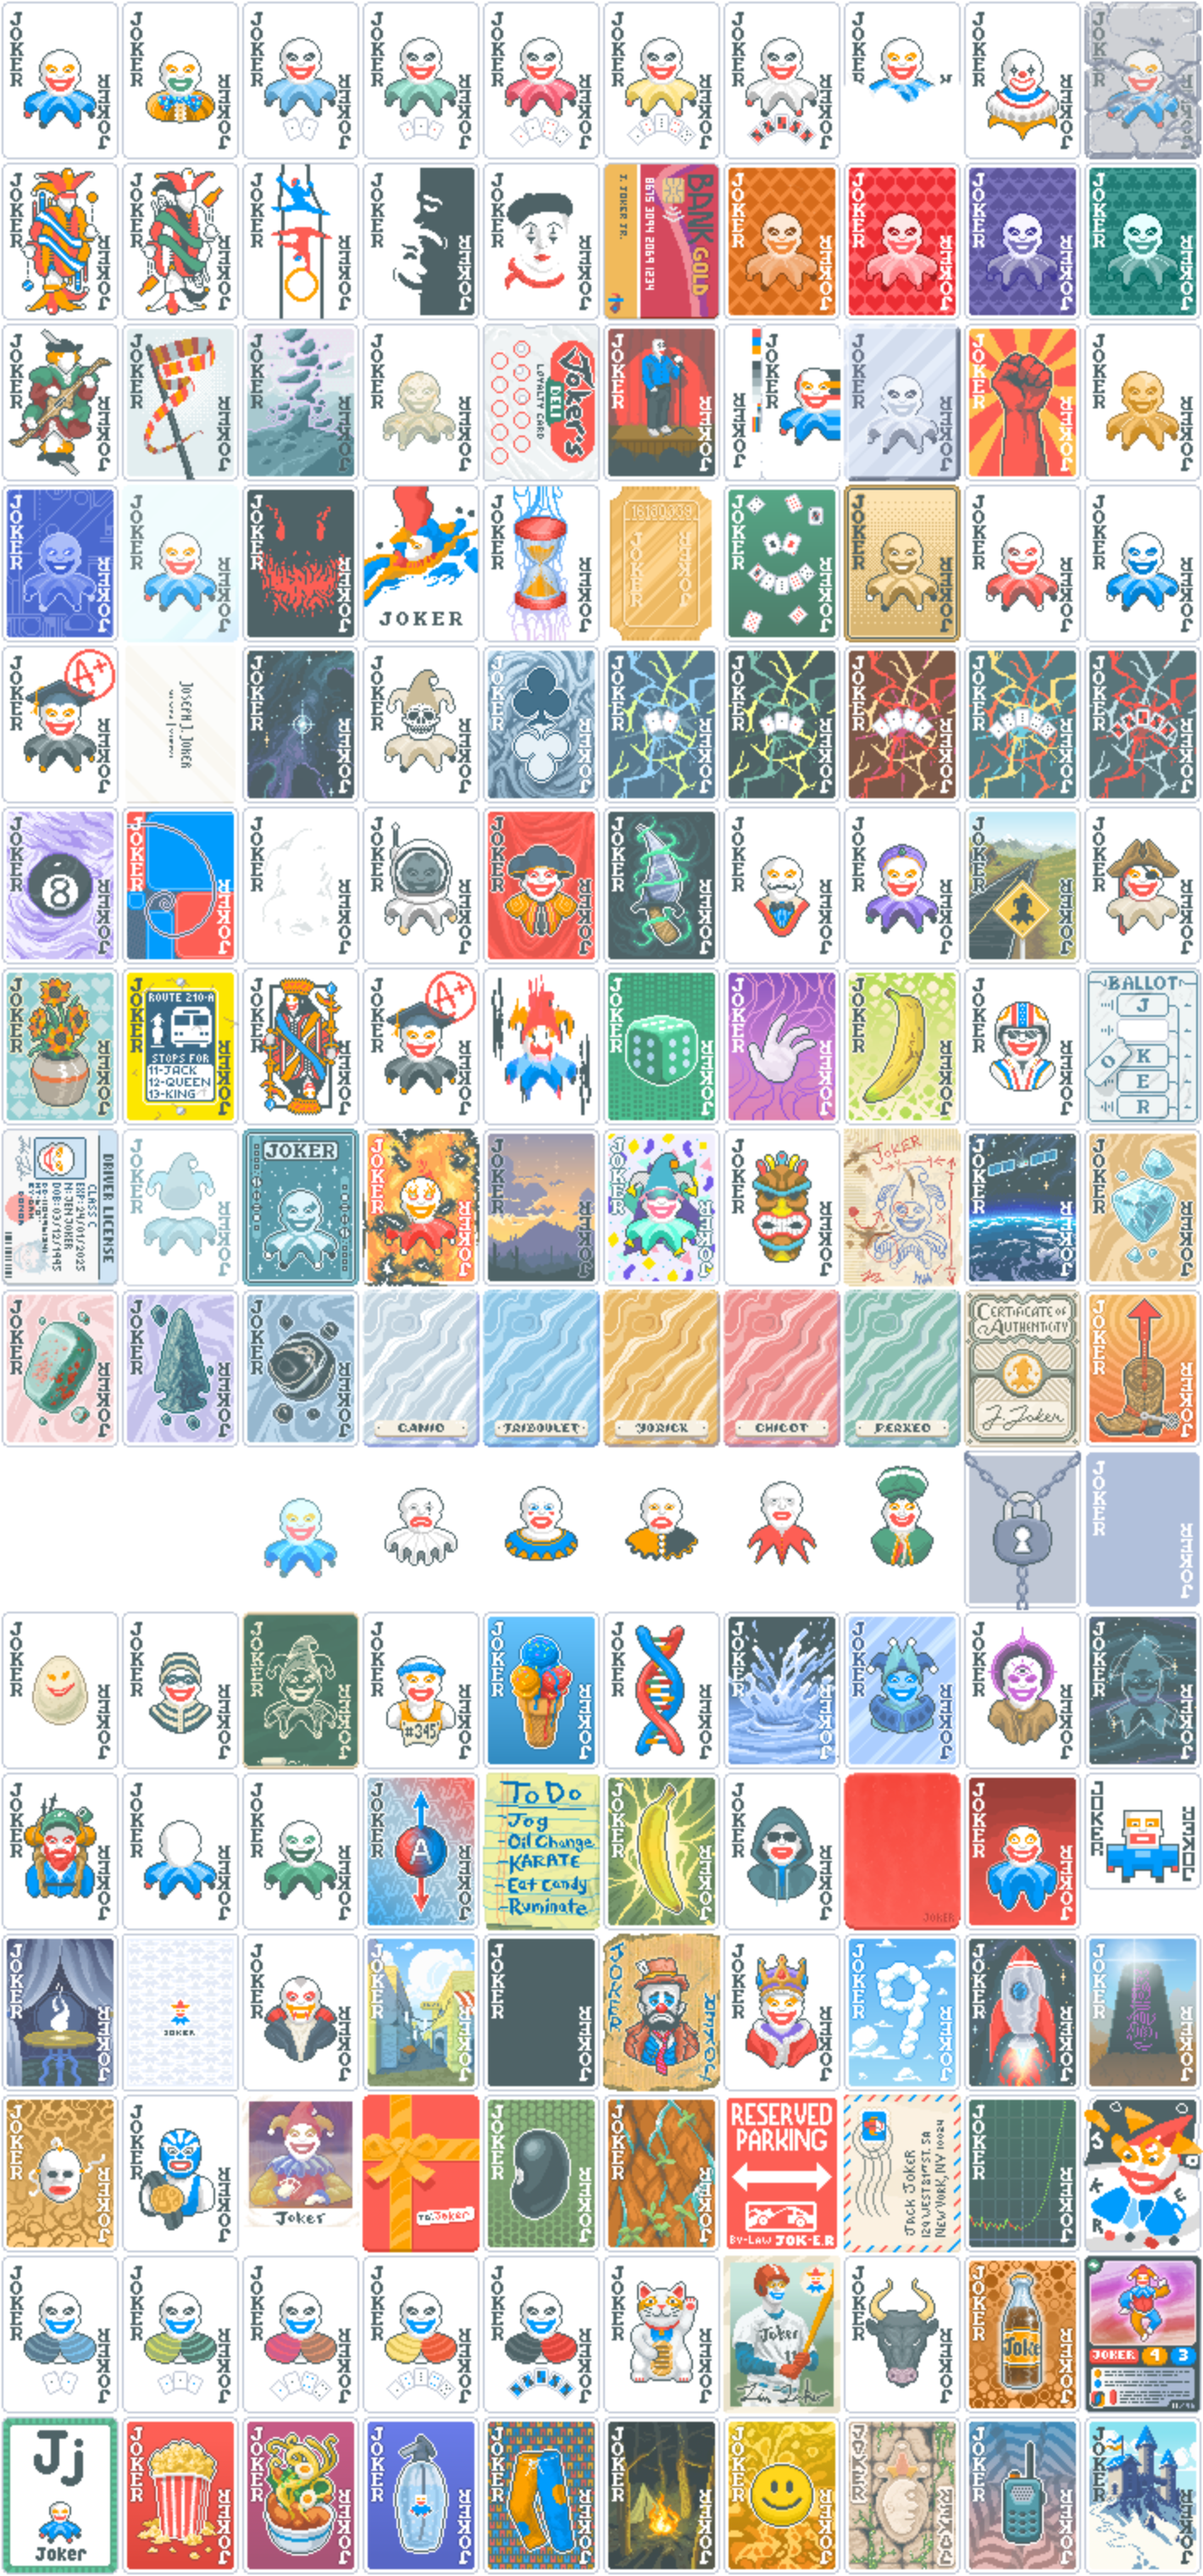
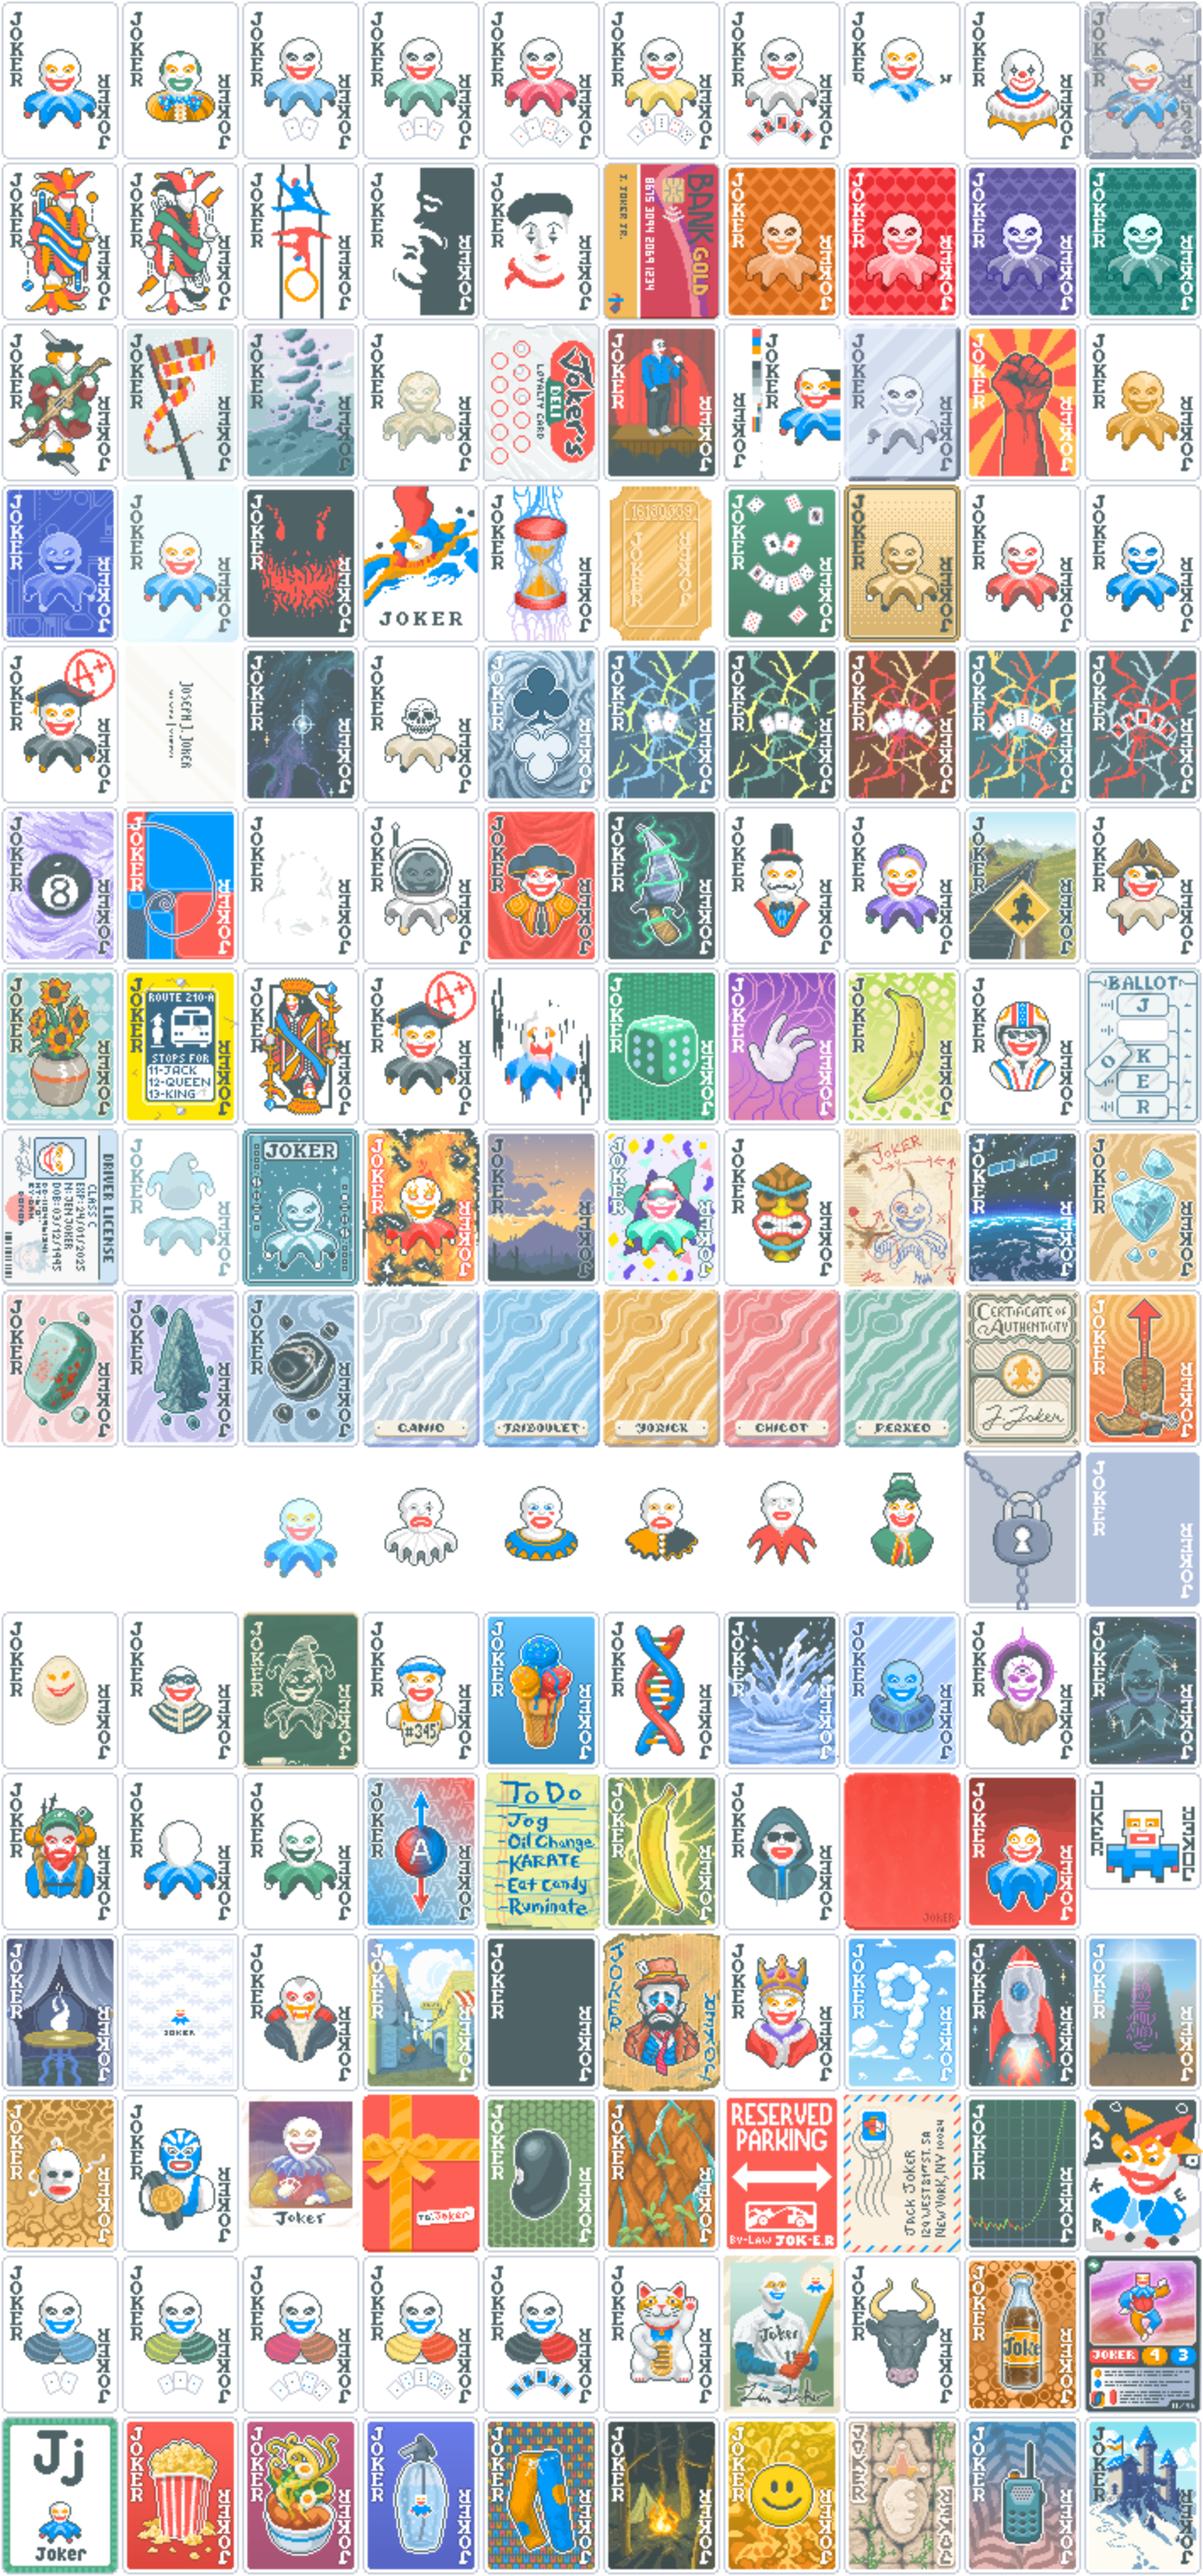
1.1

diff --git a/CHANGELOG.md b/CHANGELOG.md
@@ -1,12 +1,66 @@
-# Baldatro
-Baldatro is a mod that makes all the jokers bald, thats it, enjoy!
 
+# Baldatro
+
+Baldatro is a mod that makes all the jokers bald, that's it. Enjoy!
+
+  
+
+---
+
+  
 
 ## Updates:
-**Makes almost all Jokers bald**: Thats it, not much to say.
 
-## Installation
-To install the "Baldatro" mod, follow these steps:
+  
 
-1. This mod requires [Steamodded](https://github.com/Steamodded/smods).
-2. Just the download the "Baldatro-vx.zip" file from releases of the mod and extract it in your C:\Users\<USER>\AppData\Roaming\Balatro\Mods or %appdata%\Balatro\Mods directory.
+**Update 1.0**: Initial release.
+
+- First batch of retextured Jokers with glorious baldness.
+
+  
+
+**Update 1.1**: New wave of baldness arrives!
+
+- 🆕 **13 New Jokers retextured**:
+
+- Mr. Bones
+
+- Smeared Joker
+
+- Throwback
+
+- Brainstorm
+
+- The Idol
+
+- Burglar
+
+- Baseball Card
+
+- Trading Card
+
+- Joker Stencil
+
+- Blue Joker
+
+- Riff Raff
+
+- Photograph
+
+  
+
+- 🔧 **Improvements to previous retextures**:
+
+- Perkeo
+
+- Chaos the Clown
+
+- Showman
+
+- Swashbuckler
+
+  
+
+Stay bald, stay lucky. 🍀
+
+![Update ](https://i.ibb.co/mC8mrvT2/Baldatro-Update.png)
